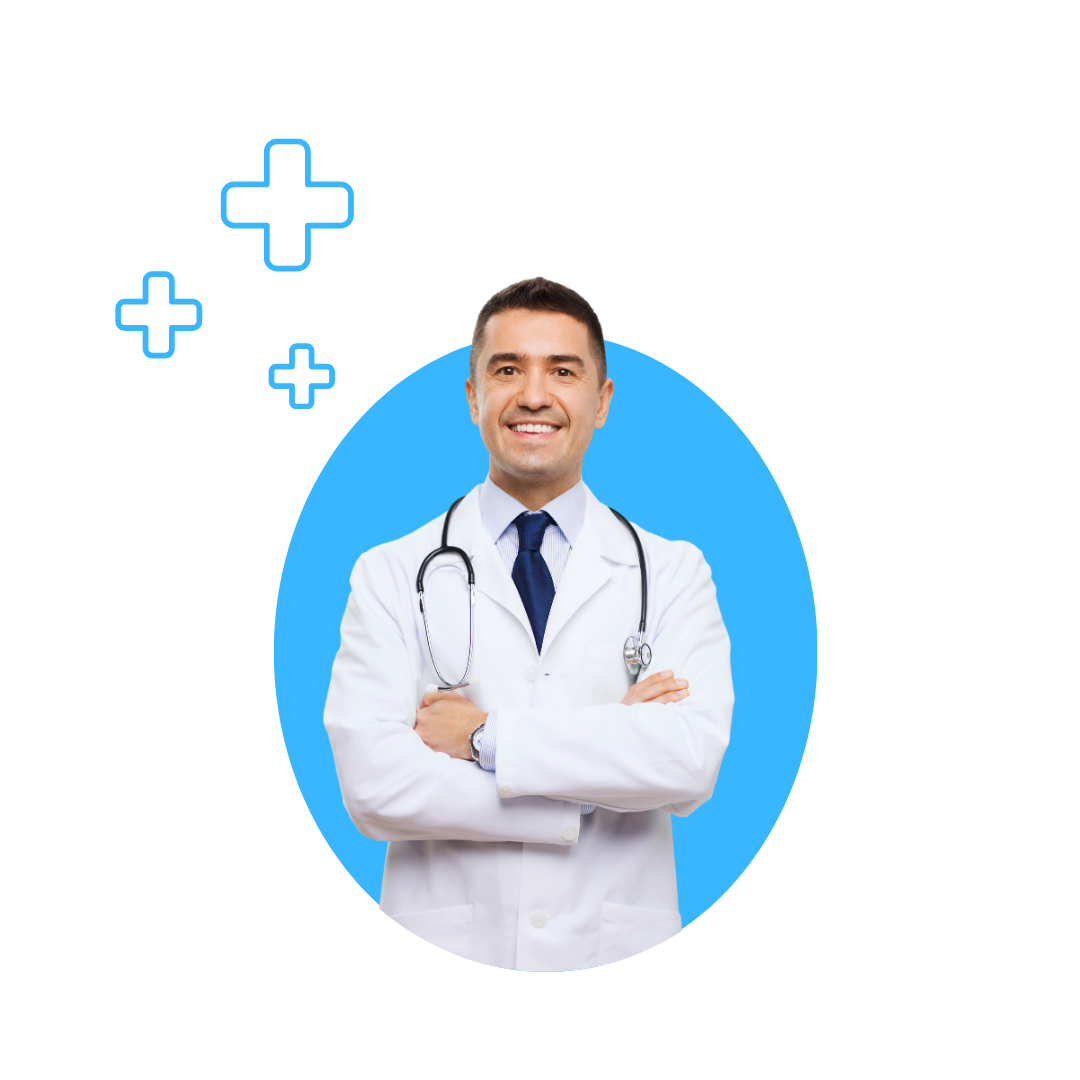
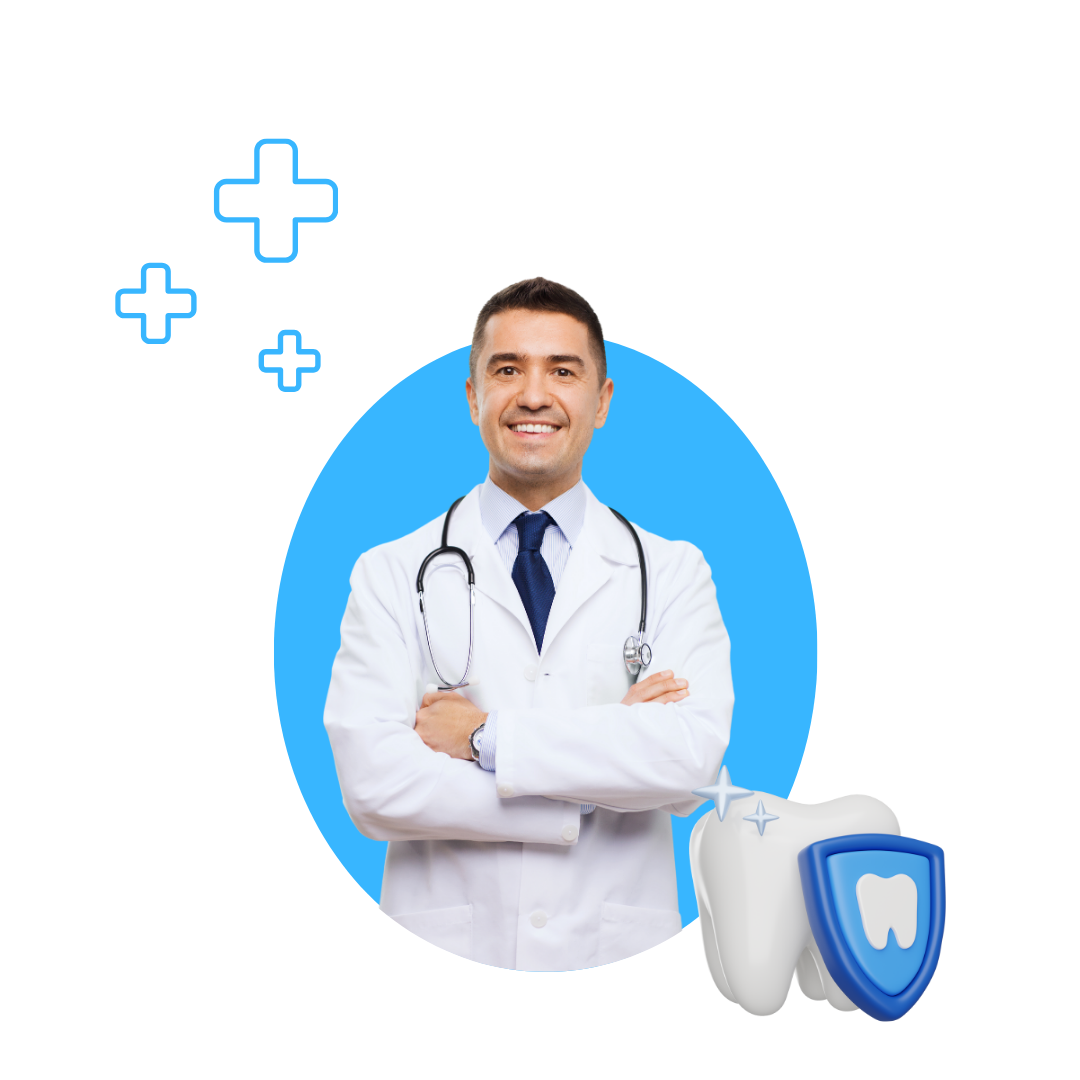
implemented the service section

diff --git a/Frontend/src/components/Home/Services.jsx b/Frontend/src/components/Home/Services.jsx
@@ -1,0 +1,130 @@
+import cosmetic from "../../assets/cosmetic.png";
+import treatment from "../../assets/treatment.png";
+import ortho from "../../assets/ortho.png";
+import surgery from "../../assets/surgery.png";
+import implant from "../../assets/implant.png";
+import oral from "../../assets/oral.png";
+
+const Services = () => {
+  return (
+    <section className="w-10/12 mx-auto">
+      <h4 className="text-center text-5xl font-bold text-sky-500">
+        Our Services
+      </h4>
+      <p className=" text-center text-gray-600 font-thin text-sm mt-6 mb-10">
+        Prevention is the foundation of a healthy smile. Our preventive dental
+        care services focus on stopping problems before they start. <br /> With
+        regular check-ups, professional cleanings, and expert advice on oral
+        hygiene, we help you keep your teeth and gums healthy, preventing
+        cavities, gum disease, and other dental issues
+      </p>
+
+      <div className="grid mx-5 gap-5 grid-cols-1 md:grid-cols-2 lg:grid-cols-3 mt-5">
+        <div className="card card-compact border border-sky-200  hover:scale-105 transition bg-gradient-to-t from-sky-100  via-sky-50  to-transparent shadow-lg">
+          <figure className="mt-5">
+            <img
+              src={treatment}
+              className="w-1/4  p-2 bg-sky-300 rounded-full"
+              alt="Shoes"
+            />
+          </figure>
+
+          <div className="card-body items-center text-center">
+            <h2 className="card-title text-sky-500">Dental Treatment</h2>
+            <p className="text-gray-500">
+              Lorem ipsum dolor sit amet consectetur adipisicing elit.
+              Repudiandae, nesciunt?
+            </p>
+          </div>
+        </div>
+        <div className="card card-compact border border-sky-200  hover:scale-105 transition bg-gradient-to-t from-sky-100  via-sky-50  to-transparent shadow-lg">
+          <figure className="mt-5">
+            <img
+              src={cosmetic}
+              className="w-1/4  p-2 bg-sky-300 rounded-full"
+              alt="Shoes"
+            />
+          </figure>
+
+          <div className="card-body items-center text-center">
+            <h2 className="card-title text-sky-500">Cosmetic Dentistry</h2>
+            <p className="text-gray-500">
+              Lorem ipsum dolor sit amet consectetur adipisicing elit.
+              Repudiandae, nesciunt?
+            </p>
+          </div>
+        </div>
+        <div className="card card-compact border border-sky-200  hover:scale-105 transition bg-gradient-to-t from-sky-100  via-sky-50  to-transparent shadow-lg">
+          <figure className="mt-5">
+            <img
+              src={oral}
+              className="w-1/4  p-2 bg-sky-300 rounded-full"
+              alt="Shoes"
+            />
+          </figure>
+
+          <div className="card-body items-center text-center">
+            <h2 className="card-title text-sky-500">Oral Hygiene</h2>
+            <p className="text-gray-500">
+              Lorem ipsum dolor sit amet consectetur adipisicing elit.
+              Repudiandae, nesciunt?
+            </p>
+          </div>
+        </div>
+        <div className="card card-compact border border-sky-200  hover:scale-105 transition bg-gradient-to-t from-sky-100  via-sky-50  to-transparent shadow-lg">
+          <figure className="mt-5 ">
+            <img
+              src={ortho}
+              className="w-1/4  p-2 bg-sky-300 rounded-full "
+              alt="Shoes"
+            />
+          </figure>
+
+          <div className="card-body items-center text-center">
+            <h2 className="card-title text-sky-500">Orthodontics</h2>
+            <p className="text-gray-500">
+              Lorem ipsum dolor sit amet consectetur adipisicing elit.
+              Repudiandae, nesciunt?
+            </p>
+          </div>
+        </div>
+        <div className="card card-compact border border-sky-200  hover:scale-105 transition bg-gradient-to-t from-sky-100  via-sky-50  to-transparent shadow-lg">
+          <figure className="mt-5">
+            <img
+              src={surgery}
+              className="w-1/4  p-2 bg-sky-300 rounded-full"
+              alt="Shoes"
+            />
+          </figure>
+
+          <div className="card-body items-center text-center">
+            <h2 className="card-title text-sky-500">Dental Surgery</h2>
+            <p className="text-gray-500">
+              Lorem ipsum dolor sit amet consectetur adipisicing elit.
+              Repudiandae, nesciunt?
+            </p>
+          </div>
+        </div>
+        <div className="card card-compact border border-sky-200  hover:scale-105 transition bg-gradient-to-t from-sky-100  via-sky-50  to-transparent shadow-lg">
+          <figure className="mt-5">
+            <img
+              src={implant}
+              className="w-1/4  p-2 bg-sky-300 rounded-full"
+              alt="Shoes"
+            />
+          </figure>
+
+          <div className="card-body items-center text-center">
+            <h2 className="card-title text-sky-500">Dental Implant</h2>
+            <p className="text-gray-500">
+              Lorem ipsum dolor sit amet consectetur adipisicing elit.
+              Repudiandae, nesciunt?
+            </p>
+          </div>
+        </div>
+      </div>
+    </section>
+  );
+};
+
+export default Services;

diff --git a/Frontend/src/components/Home/Banner.jsx b/Frontend/src/components/Home/Banner.jsx
@@ -1,0 +1,37 @@
+import { Link } from "react-router-dom";
+import doctor from "../../assets/doctor.png";
+
+const Banner = () => {
+  return (
+    <section className="bg-gradient-to-b from-sky-200  via-sky-100  to-transparent  md:-mt-16 ">
+      <div className="flex items-center justify-center flex-col-reverse md:flex-row w-10/12 mx-auto">
+        <div className="md:w-1/2 mb-20 md:mt-20  md:p-10 p-4  space-y-5">
+          <h3 className="font-bold text-3xl md:text-5xl lg:text-6xl">
+            Consult Your Dental Health Issue
+          </h3>
+
+          <p className="md:text-sm  text-xs text-gray-500">
+            Achieve a healthy, beautiful smile with our comprehensive dental
+            care services. From routine cleanings and exams to advanced
+            restorative treatments, we are committed to maintaining your oral
+            health. Our experienced team provides personalized care in a
+            comfortable, state-of-the-art environment, ensuring your teeth and
+            gums remain in top condition.
+          </p>
+
+          <Link
+            to={"/appointment"}
+            className="btn rounded-3xl bg-sky-500 text-white "
+          >
+            Book a Appointment
+          </Link>
+        </div>
+        <div className="md:w-1/2 relative">
+          <img className="p-5" src={doctor} alt="" />
+        </div>
+      </div>
+    </section>
+  );
+};
+
+export default Banner;

diff --git a/Frontend/src/pages/Home.jsx b/Frontend/src/pages/Home.jsx
@@ -1,27 +1,12 @@
-import doctor from "../assets/doctor.png";
+import Banner from "../components/Home/Banner";
+import Services from "../components/Home/Services";
 
 const Home = () => {
   return (
-    <section className="flex min-h-screen items-center justify-center flex-col md:flex-row bg-gradient-to-b from-sky-100 from-10%  to-transparent">
-      <div className="w-1/2 p-10  space-y-5">
-        <h3 className="font-bold text-6xl">Consult Your Dental Health Issue</h3>
-        <p className="text-sm text-gray-500">
-          Achieve a healthy, beautiful smile with our comprehensive dental care
-          services. From routine cleanings and exams to advanced restorative
-          treatments, we are committed to maintaining your oral health. Our
-          experienced team provides personalized care in a comfortable,
-          state-of-the-art environment, ensuring your teeth and gums remain in
-          top condition.
-        </p>
-
-        <button className="btn rounded-3xl bg-sky-500 text-white ">
-          Book a Appointment
-        </button>
-      </div>
-      <div className="w-1/2">
-        <img className="" src={doctor} alt="" />
-      </div>
-    </section>
+    <div className="bg-sky-50">
+      <Banner />
+      <Services />
+    </div>
   );
 };
 

diff --git a/Frontend/src/layouts/Main.jsx b/Frontend/src/layouts/Main.jsx
@@ -4,7 +4,7 @@ import Navbar from "../components/shared/Navbar";
 const Main = () => {
   return (
     <div>
-      <div className=" relative z-50 w-full">
+      <div className="h-16 relative z-50 w-full">
         <Navbar></Navbar>
       </div>
       <Outlet />
